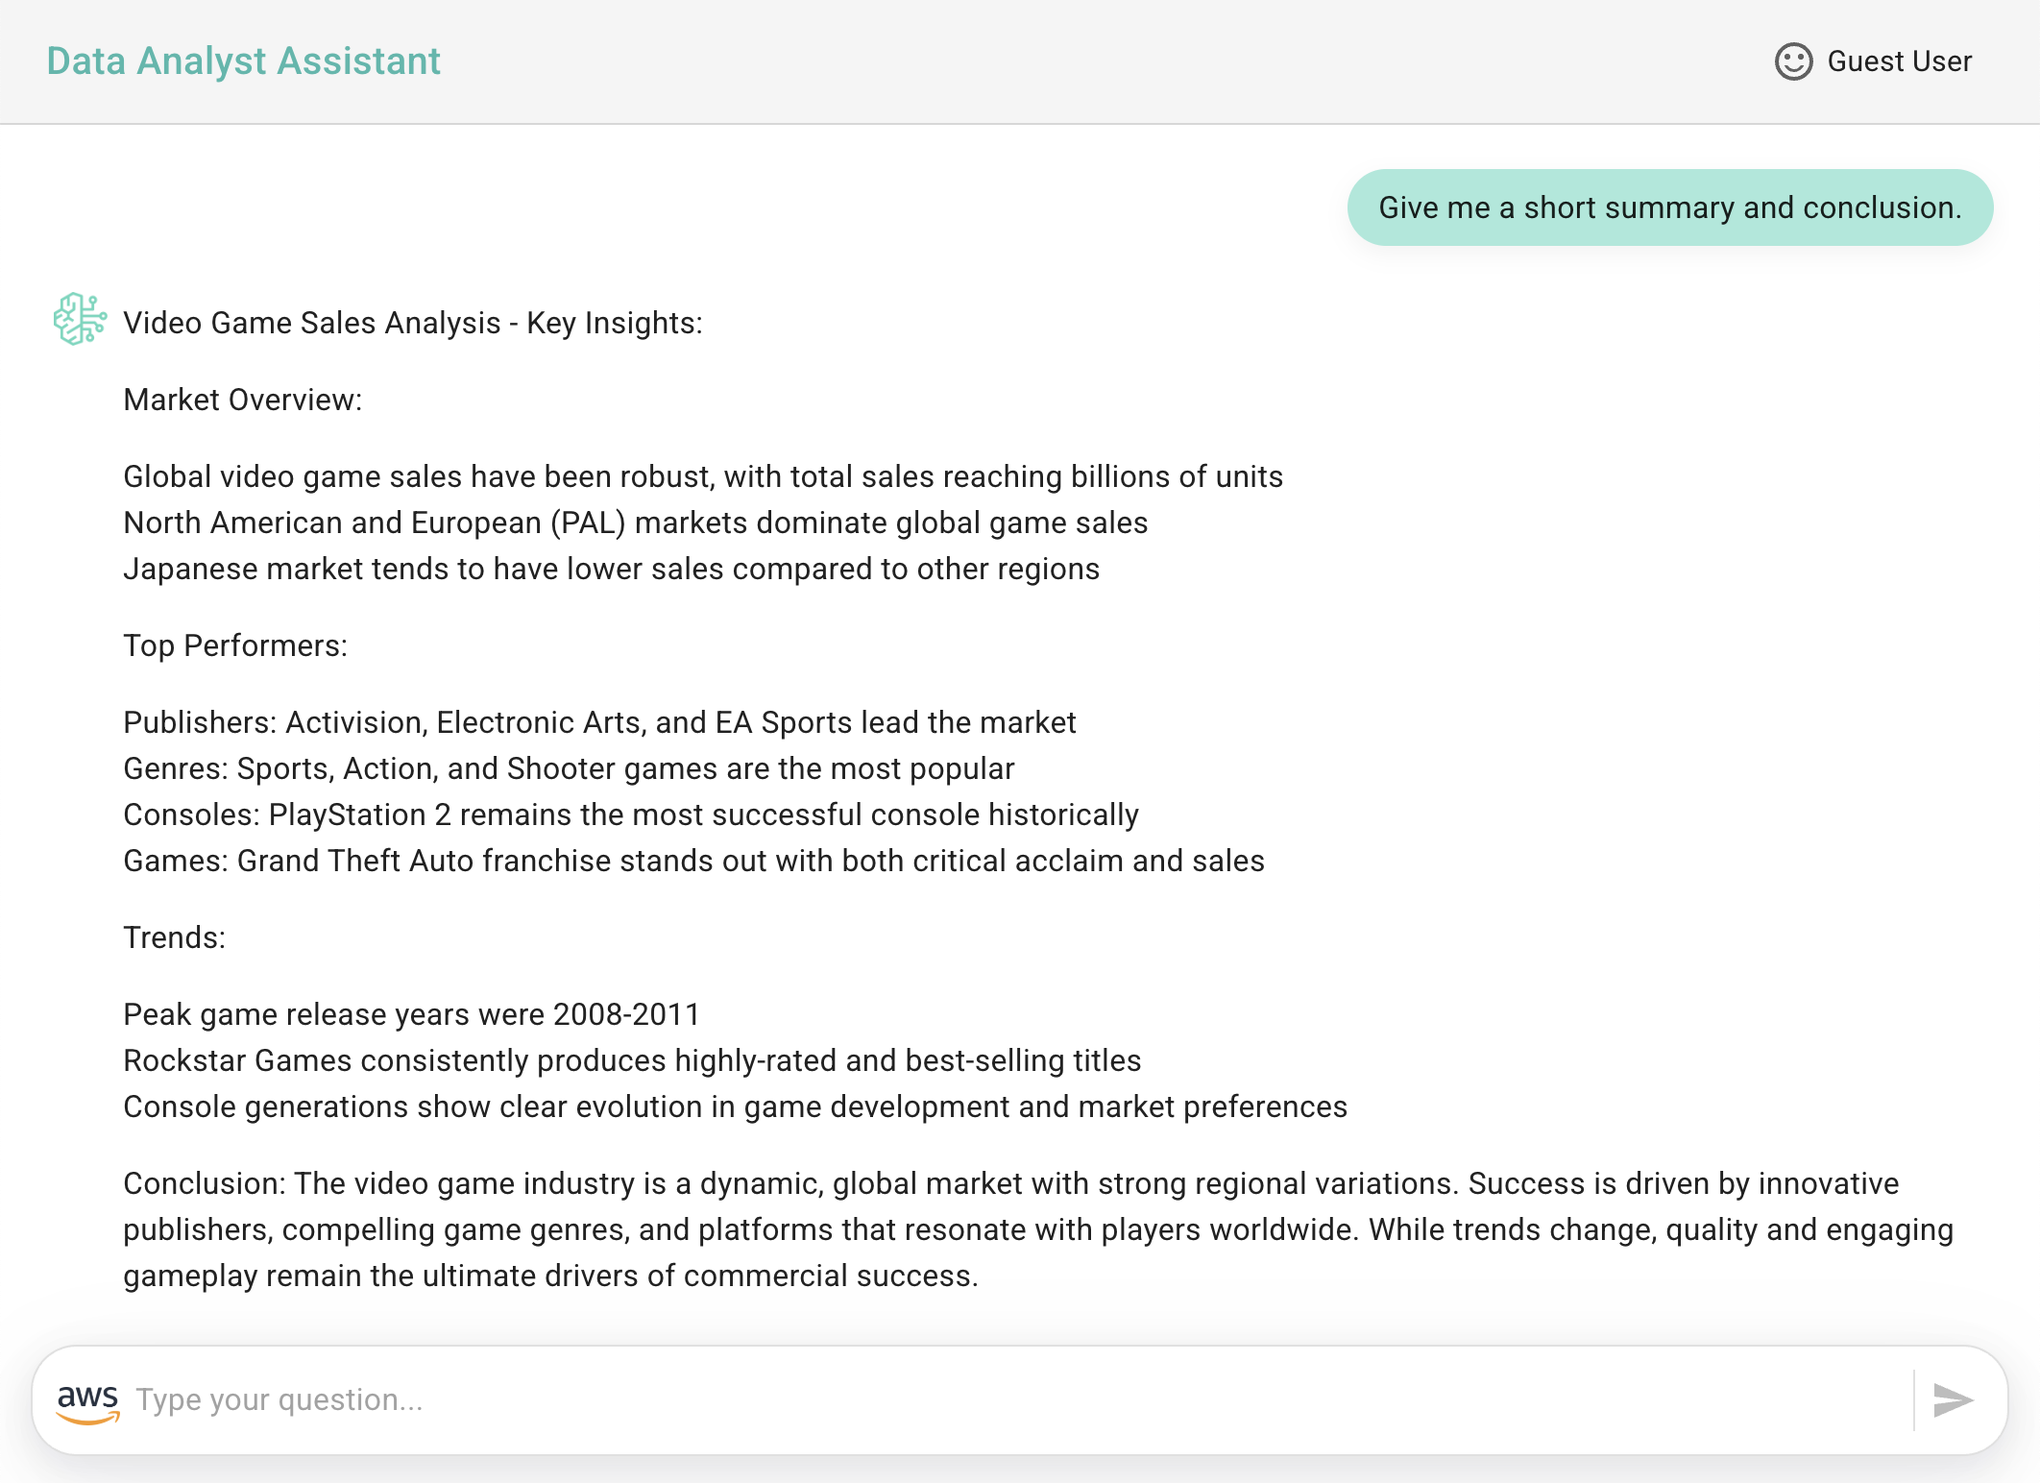
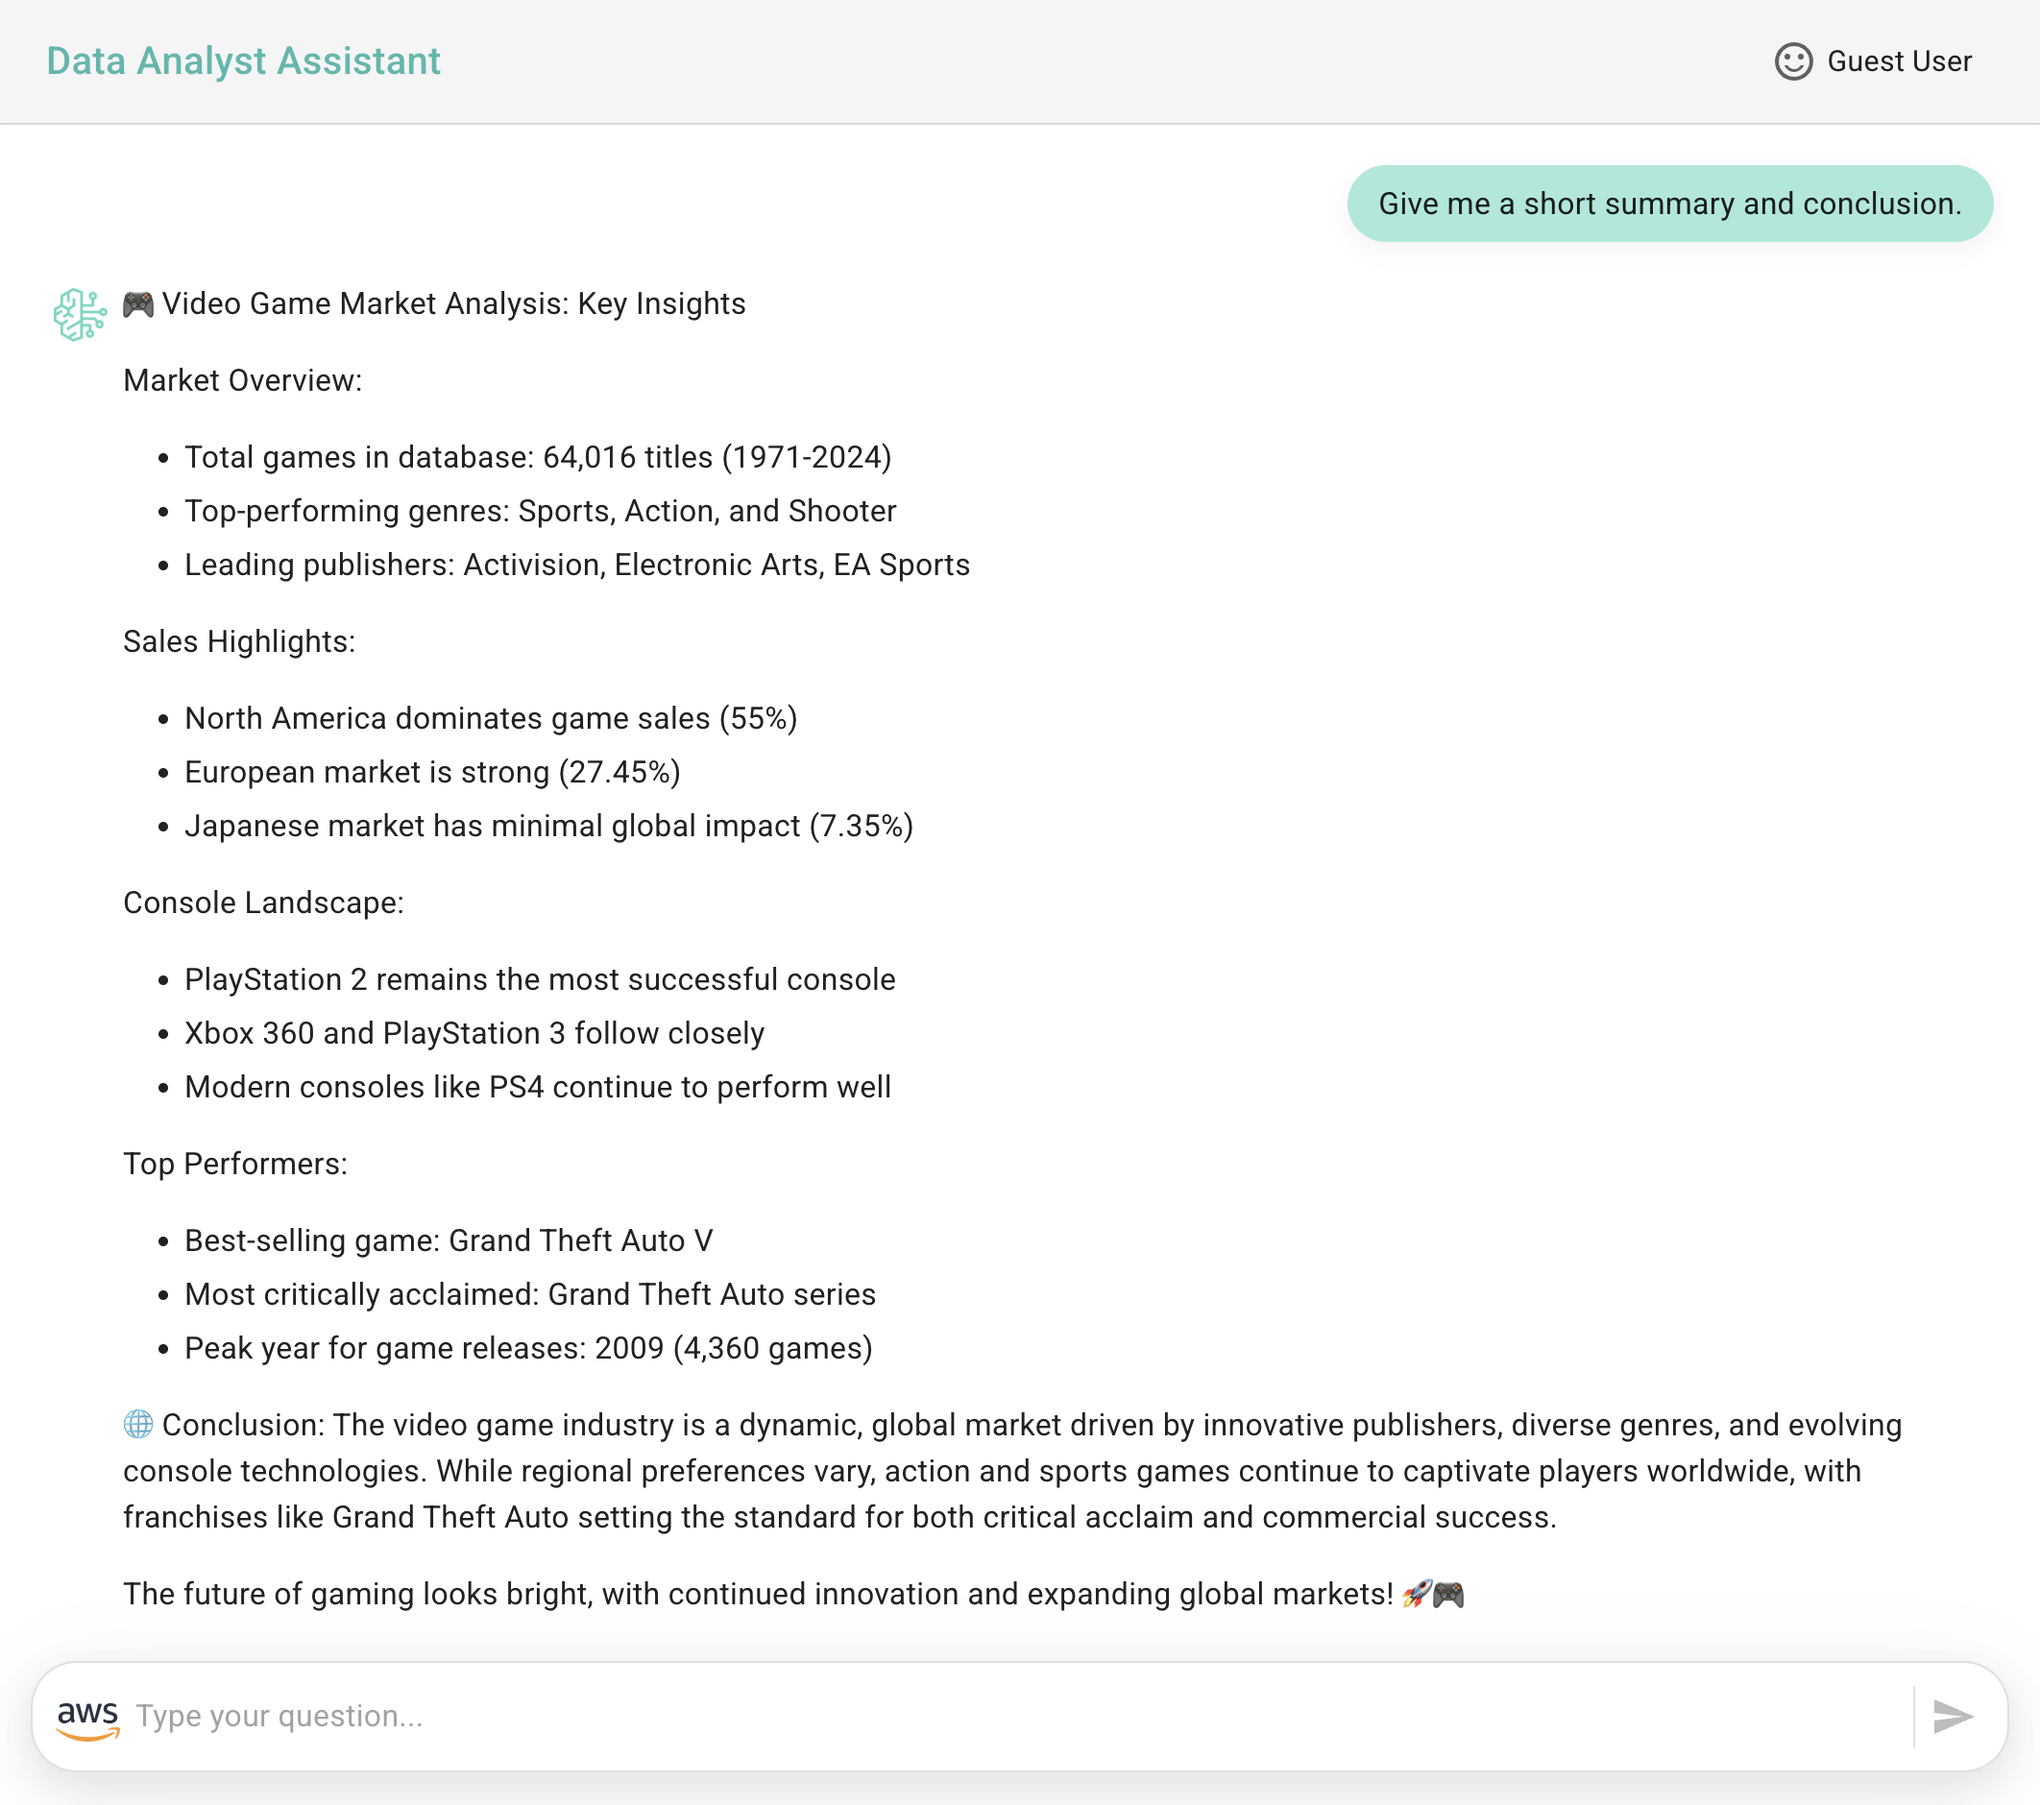
Markdown format update

diff --git a/examples/agents_ux/video_games_sales_assistant_with_amazon_bedrock_agents/amplify-video-games-sales-assistant-sample/src/components/MarkdownRenderer.css b/examples/agents_ux/video_games_sales_assistant_with_amazon_bedrock_agents/amplify-video-games-sales-assistant-sample/src/components/MarkdownRenderer.css
@@ -1,0 +1,254 @@
+/* markdown styles */
+.markdown-container {
+    max-width: 100%;
+    overflow-wrap: break-word;
+  }
+  
+  /* Headings */
+  .markdown-heading1 {
+    font-size: 2em;
+    padding-bottom: 0.3em;
+    border-bottom: 1px solid #eaecef;
+    margin-top: 24px;
+    margin-bottom: 16px;
+    font-weight: 600;
+    line-height: 1.25;
+  }
+  
+  .markdown-heading2 {
+    font-size: 1.5em;
+    padding-bottom: 0.3em;
+    border-bottom: 1px solid #eaecef;
+    margin-top: 24px;
+    margin-bottom: 16px;
+    font-weight: 600;
+    line-height: 1.25;
+  }
+  
+  .markdown-heading3 {
+    font-size: 1.25em;
+    margin-top: 24px;
+    margin-bottom: 16px;
+    font-weight: 600;
+    line-height: 1.25;
+  }
+  
+  .markdown-heading4 {
+    font-size: 1em;
+    margin-top: 24px;
+    margin-bottom: 16px;
+    font-weight: 600;
+    line-height: 1.25;
+  }
+  
+  .markdown-heading5 {
+    font-size: 0.875em;
+    margin-top: 24px;
+    margin-bottom: 16px;
+    font-weight: 600;
+    line-height: 1.25;
+  }
+  
+  .markdown-heading6 {
+    font-size: 0.85em;
+    margin-top: 24px;
+    margin-bottom: 16px;
+    font-weight: 600;
+    line-height: 1.25;
+    color: #6a737d;
+  }
+  
+  /* Paragraphs */
+  .markdown-paragraph {
+    margin-top: 0;
+    margin-bottom: 16px;
+  }
+  
+  /* Links */
+  .markdown-link {
+    color: #0366d6;
+    text-decoration: none;
+  }
+  
+  .markdown-link:hover {
+    text-decoration: underline;
+  }
+  
+  /* Lists */
+  .markdown-list {
+    padding-left: 2em;
+    margin-top: 0;
+    margin-bottom: 16px;
+  }
+  
+  .markdown-list-item {
+    margin-bottom: 4px;
+    display: list-item;
+  }
+  
+  .markdown-unordered-list {
+    list-style-type: disc;
+  }
+  
+  .markdown-ordered-list {
+    list-style-type: decimal;
+  }
+  
+  /* Code blocks and inline code */
+  .markdown-code-block {
+    background-color: #f6f8fa;
+    border-radius: 3px;
+    padding: 16px;
+    overflow-x: auto;
+    margin-top: 0;
+    margin-bottom: 16px;
+    font-family: "SFMono-Regular", Consolas, "Liberation Mono", Menlo, monospace;
+    font-size: 85%;
+    line-height: 1.45;
+  }
+  
+  .markdown-inline-code {
+    background-color: rgba(27, 31, 35, 0.05);
+    border-radius: 3px;
+    font-family: "SFMono-Regular", Consolas, "Liberation Mono", Menlo, monospace;
+    font-size: 85%;
+    padding: 0.2em 0.4em;
+    margin: 0;
+  }
+  
+  /* Blockquotes */
+  .markdown-blockquote {
+    margin: 16px 0;
+    padding: 0 1em;
+    color: #6a737d;
+    border-left: 0.25em solid #dfe2e5;
+  }
+  
+  .markdown-blockquote > :first-child {
+    margin-top: 0;
+  }
+  
+  .markdown-blockquote > :last-child {
+    margin-bottom: 0;
+  }
+  
+/* Tables */
+.markdown-table {
+    width: 100%; /* Always 100% width */
+    margin-top: 0;
+    margin-bottom: 16px;
+    border-spacing: 0;
+    border-collapse: collapse;
+    background-color: rgba(255, 255, 255, 0.2);
+  }
+  
+  .markdown-table th {
+    font-weight: 600;
+    padding: 6px 13px;
+    border: 1px solid #dfe2e5;
+    background-color: rgba(246, 248, 250, 0.5);
+  }
+  
+  .markdown-table td {
+    padding: 6px 13px;
+    border: 1px solid #dfe2e5;
+  }
+  
+  .markdown-table tr {
+    border-top: 1px solid #c6cbd1;
+  }
+  
+  .markdown-table tr:nth-child(2n) {
+    background-color: rgba(246, 248, 250, 0.4);
+  }
+  
+  /* Horizontal rule */
+  .markdown-hr {
+    height: 0.25em;
+    padding: 0;
+    margin: 24px 0;
+    background-color: #e1e4e8;
+    border: 0;
+  }
+  
+  /* Images */
+  .markdown-image {
+    max-width: 100%;
+    box-sizing: content-box;
+    background-color: #fff;
+  }
+  
+  /* Bold and italic */
+  .markdown-bold {
+    font-weight: 600;
+  }
+  
+  .markdown-italic {
+    font-style: italic;
+  }
+  
+  /* Strike */
+  .markdown-strike {
+    text-decoration: line-through;
+  }
+  
+  /* Sub and sup */
+  .markdown-sup {
+    vertical-align: super;
+    font-size: smaller;
+  }
+  
+  .markdown-sub {
+    vertical-align: sub;
+    font-size: smaller;
+  }
+  
+  /* Dark mode adjustments */
+  @media (prefers-color-scheme: dark) {
+    .markdown-container {
+      color: #c9d1d9;
+    }
+    
+    .markdown-code-block {
+      background-color: #161b22;
+    }
+    
+    .markdown-inline-code {
+      background-color: rgba(240, 246, 252, 0.15);
+    }
+    
+    .markdown-table th {
+      background-color: #161b22;
+      border-color: #30363d;
+    }
+    
+    .markdown-table td {
+      border-color: #30363d;
+    }
+    
+    .markdown-table tr {
+      background-color: #0d1117;
+      border-color: #30363d;
+    }
+    
+    .markdown-table tr:nth-child(2n) {
+      background-color: #161b22;
+    }
+    
+    .markdown-blockquote {
+      color: #8b949e;
+      border-color: #30363d;
+    }
+    
+    .markdown-hr {
+      background-color: #30363d;
+    }
+    
+    .markdown-link {
+      color: #58a6ff;
+    }
+    
+    .markdown-heading1, .markdown-heading2 {
+      border-color: #30363d;
+    }
+  }

diff --git a/examples/agents_ux/video_games_sales_assistant_with_amazon_bedrock_agents/amplify-video-games-sales-assistant-sample/src/components/MarkdownRenderer.js b/examples/agents_ux/video_games_sales_assistant_with_amazon_bedrock_agents/amplify-video-games-sales-assistant-sample/src/components/MarkdownRenderer.js
@@ -1,0 +1,59 @@
+import React from "react";
+import ReactMarkdown from "react-markdown";
+import remarkGfm from "remark-gfm";
+import rehypeRaw from "rehype-raw";
+import { Box } from "@mui/material";
+import "./MarkdownRenderer.css";
+
+const MarkdownRenderer = ({ content }) => {
+  return (
+    <Box className="markdown-container">
+      <ReactMarkdown
+        remarkPlugins={[remarkGfm]}
+        rehypePlugins={[rehypeRaw]}
+        components={{
+          h1: ({ node, ...props }) => <h1 className="markdown-heading1" {...props} />,
+          h2: ({ node, ...props }) => <h2 className="markdown-heading2" {...props} />,
+          h3: ({ node, ...props }) => <h3 className="markdown-heading3" {...props} />,
+          h4: ({ node, ...props }) => <h4 className="markdown-heading4" {...props} />,
+          h5: ({ node, ...props }) => <h5 className="markdown-heading5" {...props} />,
+          h6: ({ node, ...props }) => <h6 className="markdown-heading6" {...props} />,
+          p: ({ node, ...props }) => <p className="markdown-paragraph" {...props} />,
+          a: ({ node, ...props }) => <a className="markdown-link" {...props} />,
+          code: ({ node, inline, ...props }) => {
+            return inline ? (
+              <code className="markdown-inline-code" {...props} />
+            ) : (
+              <pre className="markdown-code-block">
+                <code {...props} />
+              </pre>
+            );
+          },
+          ul: ({ node, ...props }) => <ul className="markdown-list markdown-unordered-list" {...props} />,
+          ol: ({ node, ...props }) => <ol className="markdown-list markdown-ordered-list" {...props} />,
+          li: ({ node, ...props }) => <li className="markdown-list-item" {...props} />,
+          blockquote: ({ node, ...props }) => <blockquote className="markdown-blockquote" {...props} />,
+          table: ({ node, ...props }) => <table className="markdown-table" {...props} />,
+          th: ({ node, ...props }) => <th {...props} />,
+          td: ({ node, ...props }) => <td {...props} />,
+          br: () => <br />,
+          hr: () => <hr className="markdown-hr" />,
+          b: ({ node, ...props }) => <strong className="markdown-bold" {...props} />,
+          strong: ({ node, ...props }) => <strong className="markdown-bold" {...props} />,
+          i: ({ node, ...props }) => <em className="markdown-italic" {...props} />,
+          em: ({ node, ...props }) => <em className="markdown-italic" {...props} />,
+          u: ({ node, ...props }) => <u {...props} />,
+          s: ({ node, ...props }) => <s className="markdown-strike" {...props} />,
+          del: ({ node, ...props }) => <del className="markdown-strike" {...props} />,
+          sup: ({ node, ...props }) => <sup className="markdown-sup" {...props} />,
+          sub: ({ node, ...props }) => <sub className="markdown-sub" {...props} />,
+          img: ({ node, ...props }) => <img className="markdown-image" {...props} alt={props.alt || ""} />,
+        }}
+      >
+        {content}
+      </ReactMarkdown>
+    </Box>
+  );
+};
+
+export default MarkdownRenderer;

diff --git a/examples/agents_ux/video_games_sales_assistant_with_amazon_bedrock_agents/amplify-video-games-sales-assistant-sample/src/components/Chat.js b/examples/agents_ux/video_games_sales_assistant_with_amazon_bedrock_agents/amplify-video-games-sales-assistant-sample/src/components/Chat.js
@@ -1,6 +1,4 @@
 import React, { useLayoutEffect, useRef, useEffect } from "react";
-import ReactMarkdown from "react-markdown";
-import remarkGfm from "remark-gfm";
 import Typography from "@mui/material/Typography";
 import IconButton from "@mui/material/IconButton";
 import SendIcon from "@mui/icons-material/Send";
@@ -29,6 +27,7 @@ import {
   getQueryResults,
   generateChart,
 } from "../utils/AwsCalls";
+import MarkdownRenderer from "./MarkdownRenderer.js";
 
 const Chat = ({ userName = "Guest User" }) => {
   const [totalAnswers, setTotalAnswers] = React.useState(0);
@@ -265,13 +264,7 @@ const Chat = ({ userName = "Guest User" }) => {
                             }}
                           >
                             <Typography component="div" variant="body1">
-                              <ReactMarkdown
-                                remarkPlugins={[
-                                  [remarkGfm, { singleTilde: false }],
-                                ]}
-                              >
-                                {answer.text}
-                              </ReactMarkdown>
+                              <MarkdownRenderer content={answer.text} />
                             </Typography>
                           </Box>
                         </Grow>
@@ -481,7 +474,6 @@ const Chat = ({ userName = "Guest User" }) => {
                               {answer.chart.rationale}
                             </Typography>
                           )}
-
                         </Box>
                       )}
                     </Box>

diff --git a/examples/agents_ux/video_games_sales_assistant_with_amazon_bedrock_agents/amplify-video-games-sales-assistant-sample/src/components/AnswerDetailsDialog.js b/examples/agents_ux/video_games_sales_assistant_with_amazon_bedrock_agents/amplify-video-games-sales-assistant-sample/src/components/AnswerDetailsDialog.js
@@ -7,10 +7,8 @@ import Dialog from "@mui/material/Dialog";
 import DialogActions from "@mui/material/DialogActions";
 import DialogContent from "@mui/material/DialogContent";
 import DialogTitle from "@mui/material/DialogTitle";
-import ReactMarkdown from "react-markdown";
-import remarkGfm from "remark-gfm";
 import OrchestrationRationaleTraceViewer from "./OrchestrationRationaleTraceViewer.js";
-import "./AnswerDetailsDialog.css";
+import MarkdownRenderer from "./MarkdownRenderer.js";
 
 const AnswerDetailsDialog = ({ answer, question, handleClose, open }) => {
   const [fullWidth, setFullWidth] = React.useState(true);
@@ -48,13 +46,9 @@ const AnswerDetailsDialog = ({ answer, question, handleClose, open }) => {
               >
                 Answer
               </Typography>
-              <div id="answer-details-dialog-table">
-                <ReactMarkdown
-                  remarkPlugins={[[remarkGfm, { singleTilde: false }]]}
-                >
-                  {answer.text}
-                </ReactMarkdown>
-              </div>
+              <Typography component="div" variant="body1">
+                <MarkdownRenderer content={answer.text} />
+              </Typography>
             </Box>
           </Grid>
           <Grid size={{ sm: 12, md: 12, xs: 6, md: 6 }}>

diff --git a/examples/agents_ux/video_games_sales_assistant_with_amazon_bedrock_agents/amplify-video-games-sales-assistant-sample/src/utils/AwsCalls.js b/examples/agents_ux/video_games_sales_assistant_with_amazon_bedrock_agents/amplify-video-games-sales-assistant-sample/src/utils/AwsCalls.js
@@ -244,17 +244,6 @@ export const generateChart = async (
         ),
       };
 
-      // Add additional chart configuration
-      chart.chart_configuration.options.chart.zoom = { enabled: false };
-
-      if (chart.chart_configuration.options.hasOwnProperty("title")) {
-        chart.chart_configuration.options.title.align = "center";
-      }
-
-      if (chart.chart_configuration.options.hasOwnProperty("subtitle")) {
-        chart.chart_configuration.options.subtitle.align = "center";
-      }
-
       console.log("------- Final chart generation -------");
       console.log(chart);
       
